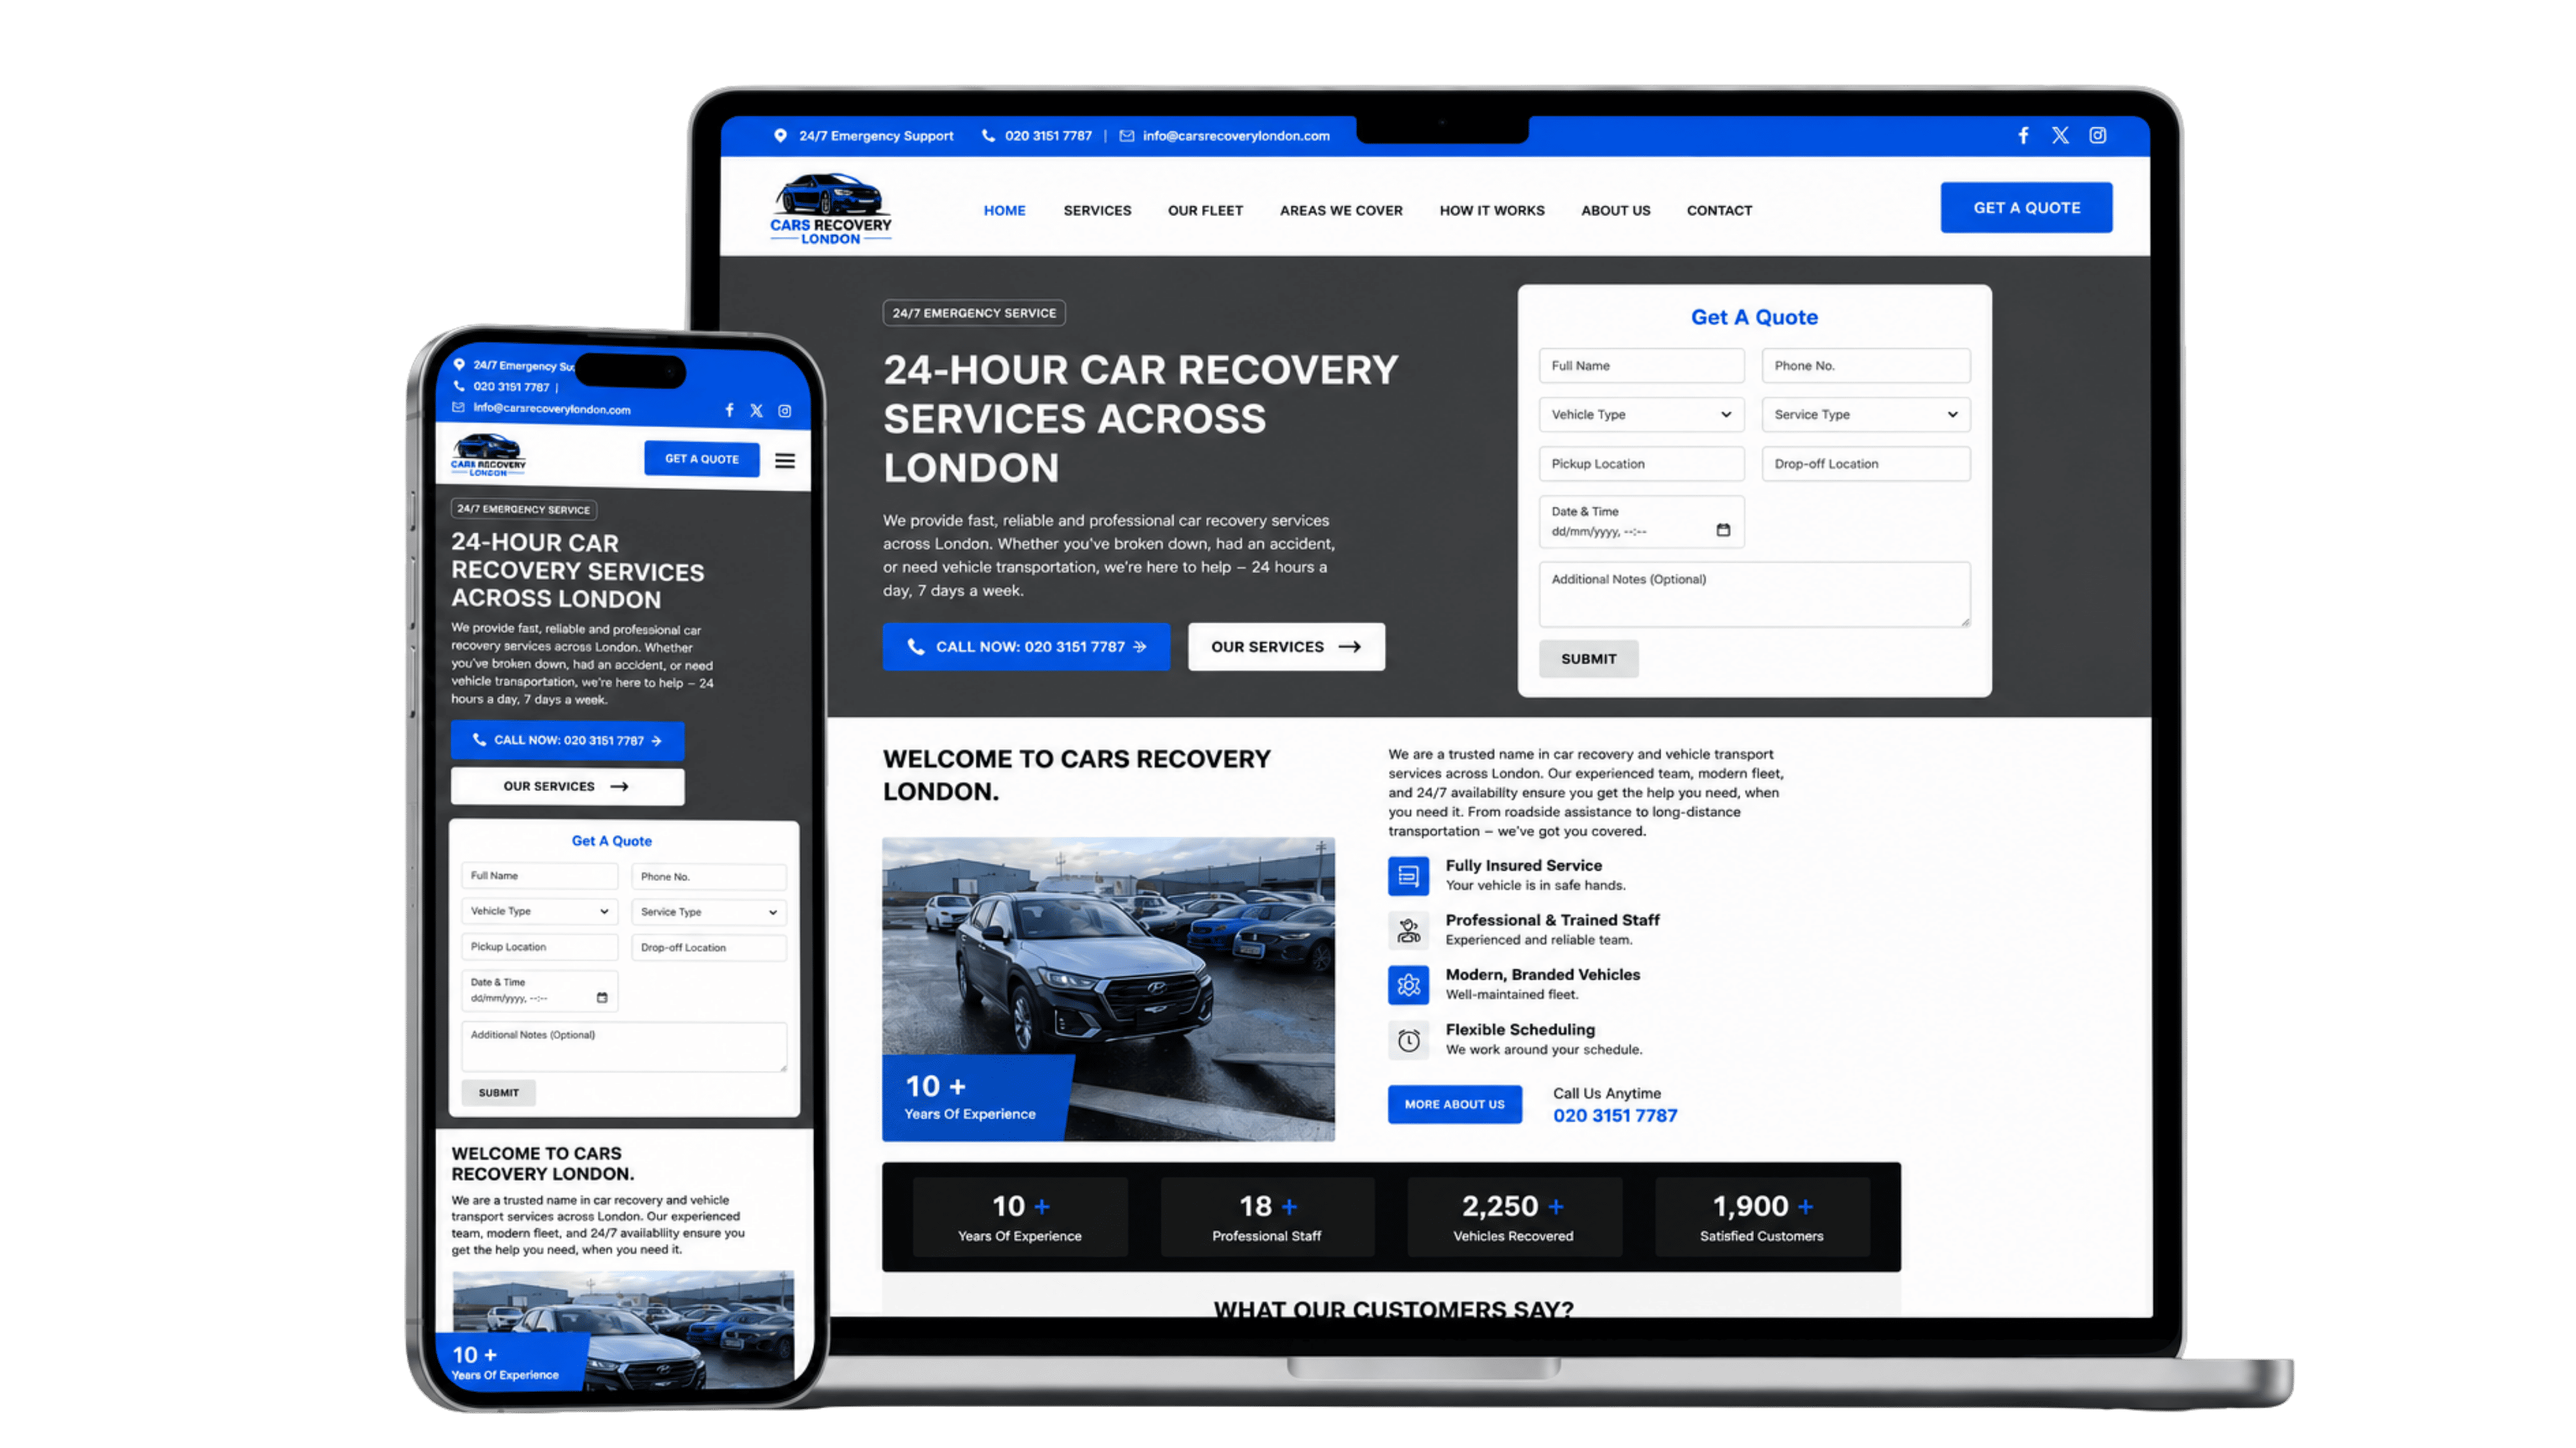
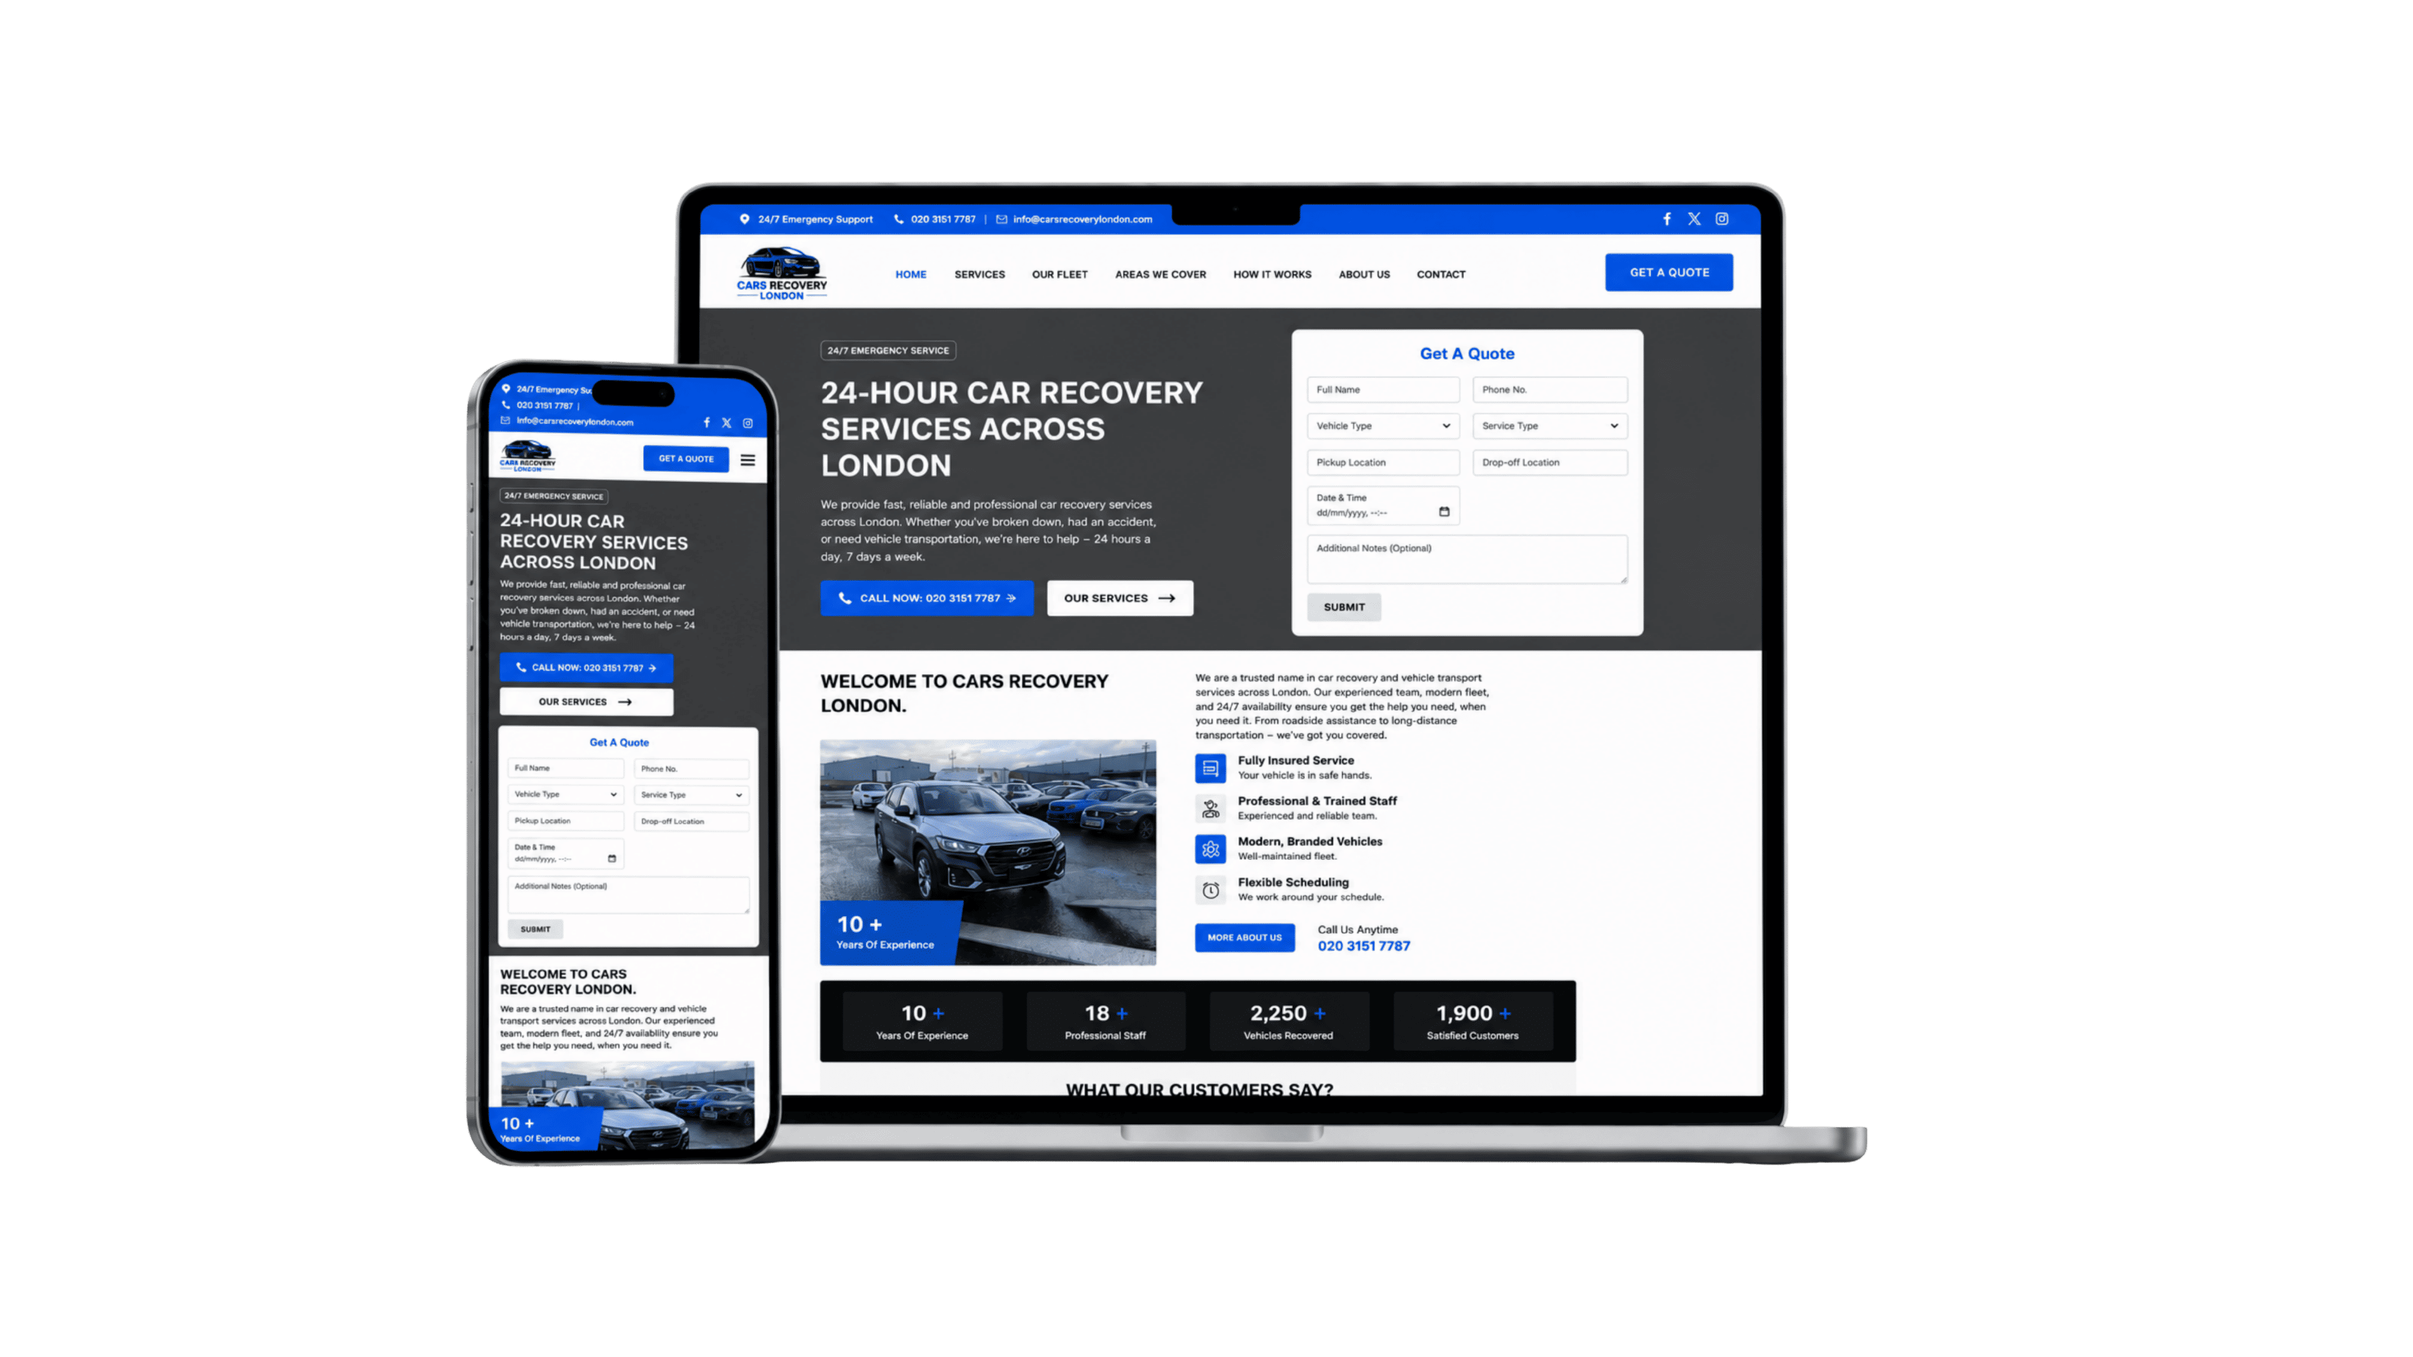
f

diff --git a/app/case-studies/page.tsx b/app/case-studies/page.tsx
@@ -82,7 +82,7 @@ export const projects = [
     slug: "vilabarbaut",
     title: "Vila Barbaut",
     category: "web",
-    image: "/villabarbaut.png",
+    image: "/villabarbout.png",
     liveUrl: "https://vilabarbaut.com/"
   },
 
